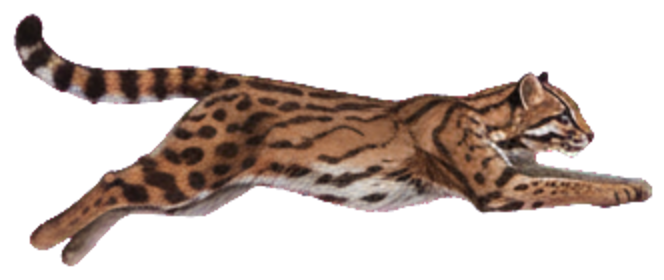
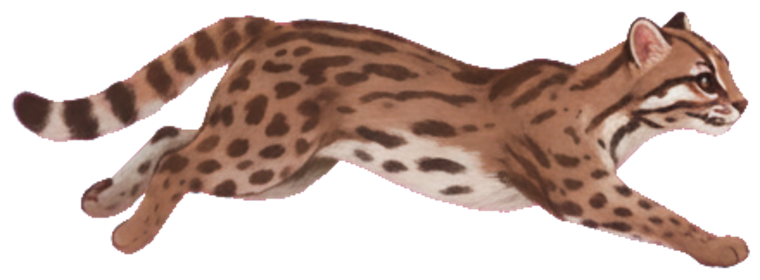
奔跑畫格畫風修正：無肌肉、維持原本柔和寫實 (sw v134)
玩家定案：畫風不可有肌肉線條，維持原本真實。石虎/梅花鹿/山羌/獼猴/黃喉貂/樹蛙
6 隻的奔跑畫格看起來太精壯（像獵豹衝刺的肌肉感），與原本柔和寫實立繪不一致——
重產這 6 隻的疾馳循環，提示詞鎖定「兒童自然圖鑑柔和寫實、圓潤自然身形、
絕不允許肌肉線條/健美感」，切格 QA 後 21 格替換上線（總計 59 格）。
sw ASSETS 以目錄清單重建、CACHE 升 v134。
驗收：單元/冒煙測試全過；實機跑動確認柔軟圓潤風格、0 遊戲 runtime error

Claude-Session: https://claude.ai/code/session_011Jxz2mf3wHUnx2whakaRhC

diff --git a/sw.js b/sw.js
@@ -1,10 +1,10 @@
 // 守土 Service Worker — 線上優先、離線可玩
-const CACHE = "shoutu-v133";
+const CACHE = "shoutu-v134";
 const ASSETS = ["./", "./index.html", "./src/fullscreen.js", "./src/sfx.js", "./src/legacy.js", "./src/moba.js", "./src/battleshop.js", "./src/net.js", "./src/habitat.js", "./src/data/types-chart.js", "./src/data/perf-tier.js", "./manifest.json", "./icon.svg", "./dino.html",
   // 守護者/入侵種寫實插畫（圖檔優先、沒圖時 canvas fallback）：預快取確保離線也看得到
   "./assets/heroes/leopard.png", "./assets/heroes/bear.png", "./assets/heroes/cicada.png", "./assets/heroes/dragonfly.png", "./assets/heroes/deer.png", "./assets/heroes/magpie.png", "./assets/heroes/muntjac.png", "./assets/heroes/macaque.png", "./assets/heroes/salmon.png", "./assets/heroes/pheasant.png", "./assets/heroes/pangolin.png", "./assets/heroes/yellowmarten.png", "./assets/heroes/mikado.png",
   "./assets/field/ground.png", "./assets/field/shrine.png", "./assets/field/nursery.png", "./assets/field/rock.png", "./assets/field/bush.png", "./assets/field/tree.png", "./assets/views/leopard_front.png", "./assets/views/leopard_right.png", "./assets/views/leopard_back.png", "./assets/views/leopard_left.png",
-  "./assets/views/bear_front.png", "./assets/views/bear_right.png", "./assets/views/bear_back.png", "./assets/views/bear_left.png", "./assets/views/cicada_front.png", "./assets/views/cicada_right.png", "./assets/views/cicada_back.png", "./assets/views/cicada_left.png", "./assets/views/dragonfly_front.png", "./assets/views/dragonfly_right.png", "./assets/views/dragonfly_back.png", "./assets/views/dragonfly_left.png", "./assets/views/deer_front.png", "./assets/views/deer_right.png", "./assets/views/deer_back.png", "./assets/views/deer_left.png", "./assets/views/magpie_front.png", "./assets/views/magpie_right.png", "./assets/views/magpie_back.png", "./assets/views/magpie_left.png", "./assets/views/muntjac_front.png", "./assets/views/muntjac_right.png", "./assets/views/muntjac_back.png", "./assets/views/muntjac_left.png", "./assets/views/macaque_front.png", "./assets/views/macaque_right.png", "./assets/views/macaque_back.png", "./assets/views/macaque_left.png", "./assets/views/salmon_front.png", "./assets/views/salmon_right.png", "./assets/views/salmon_back.png", "./assets/views/salmon_left.png", "./assets/views/pheasant_front.png", "./assets/views/pheasant_right.png", "./assets/views/pheasant_back.png", "./assets/views/pheasant_left.png", "./assets/views/pangolin_front.png", "./assets/views/pangolin_right.png", "./assets/views/pangolin_back.png", "./assets/views/pangolin_left.png", "./assets/views/yellowmarten_front.png", "./assets/views/yellowmarten_right.png", "./assets/views/yellowmarten_back.png", "./assets/views/yellowmarten_left.png", "./assets/views/mikado_front.png", "./assets/views/mikado_right.png", "./assets/views/mikado_back.png", "./assets/views/mikado_left.png", "./assets/run/bear_0.png", "./assets/run/bear_1.png", "./assets/run/bear_2.png", "./assets/run/bear_3.png", "./assets/run/canetoad_0.png", "./assets/run/canetoad_1.png", "./assets/run/canetoad_2.png", "./assets/run/canetoad_3.png", "./assets/run/cicada_0.png", "./assets/run/cicada_1.png", "./assets/run/cicada_2.png", "./assets/run/cicada_3.png", "./assets/run/deer_0.png", "./assets/run/deer_1.png", "./assets/run/deer_2.png", "./assets/run/deer_3.png", "./assets/run/dragonfly_0.png", "./assets/run/dragonfly_1.png", "./assets/run/dragonfly_2.png", "./assets/run/dragonfly_3.png", "./assets/run/frog_0.png", "./assets/run/frog_1.png", "./assets/run/frog_2.png", "./assets/run/frog_3.png", "./assets/run/ibis_0.png", "./assets/run/ibis_1.png", "./assets/run/ibis_2.png", "./assets/run/leopard_0.png", "./assets/run/leopard_1.png", "./assets/run/leopard_2.png", "./assets/run/leopard_3.png", "./assets/run/macaque_0.png", "./assets/run/macaque_1.png", "./assets/run/macaque_2.png", "./assets/run/magpie_0.png", "./assets/run/magpie_1.png", "./assets/run/mikado_0.png", "./assets/run/mikado_1.png", "./assets/run/muntjac_0.png", "./assets/run/muntjac_1.png", "./assets/run/muntjac_2.png", "./assets/run/muntjac_3.png", "./assets/run/pangolin_0.png", "./assets/run/pangolin_1.png", "./assets/run/pangolin_2.png", "./assets/run/python_0.png", "./assets/run/python_1.png", "./assets/run/python_2.png", "./assets/run/salmon_0.png", "./assets/run/salmon_1.png", "./assets/run/skink_0.png", "./assets/run/skink_1.png", "./assets/run/skink_2.png", "./assets/run/snail_0.png", "./assets/run/snail_1.png", "./assets/run/snail_2.png", "./assets/run/snail_3.png", "./assets/run/yellowmarten_0.png", "./assets/run/yellowmarten_1.png", "./assets/run/yellowmarten_2.png",
+  "./assets/views/bear_front.png", "./assets/views/bear_right.png", "./assets/views/bear_back.png", "./assets/views/bear_left.png", "./assets/views/cicada_front.png", "./assets/views/cicada_right.png", "./assets/views/cicada_back.png", "./assets/views/cicada_left.png", "./assets/views/dragonfly_front.png", "./assets/views/dragonfly_right.png", "./assets/views/dragonfly_back.png", "./assets/views/dragonfly_left.png", "./assets/views/deer_front.png", "./assets/views/deer_right.png", "./assets/views/deer_back.png", "./assets/views/deer_left.png", "./assets/views/magpie_front.png", "./assets/views/magpie_right.png", "./assets/views/magpie_back.png", "./assets/views/magpie_left.png", "./assets/views/muntjac_front.png", "./assets/views/muntjac_right.png", "./assets/views/muntjac_back.png", "./assets/views/muntjac_left.png", "./assets/views/macaque_front.png", "./assets/views/macaque_right.png", "./assets/views/macaque_back.png", "./assets/views/macaque_left.png", "./assets/views/salmon_front.png", "./assets/views/salmon_right.png", "./assets/views/salmon_back.png", "./assets/views/salmon_left.png", "./assets/views/pheasant_front.png", "./assets/views/pheasant_right.png", "./assets/views/pheasant_back.png", "./assets/views/pheasant_left.png", "./assets/views/pangolin_front.png", "./assets/views/pangolin_right.png", "./assets/views/pangolin_back.png", "./assets/views/pangolin_left.png", "./assets/views/yellowmarten_front.png", "./assets/views/yellowmarten_right.png", "./assets/views/yellowmarten_back.png", "./assets/views/yellowmarten_left.png", "./assets/views/mikado_front.png", "./assets/views/mikado_right.png", "./assets/views/mikado_back.png", "./assets/views/mikado_left.png", "./assets/run/bear_0.png", "./assets/run/bear_1.png", "./assets/run/bear_2.png", "./assets/run/bear_3.png", "./assets/run/canetoad_0.png", "./assets/run/canetoad_1.png", "./assets/run/canetoad_2.png", "./assets/run/canetoad_3.png", "./assets/run/cicada_0.png", "./assets/run/cicada_1.png", "./assets/run/cicada_2.png", "./assets/run/cicada_3.png", "./assets/run/deer_0.png", "./assets/run/deer_1.png", "./assets/run/deer_2.png", "./assets/run/dragonfly_0.png", "./assets/run/dragonfly_1.png", "./assets/run/dragonfly_2.png", "./assets/run/dragonfly_3.png", "./assets/run/frog_0.png", "./assets/run/frog_1.png", "./assets/run/frog_2.png", "./assets/run/frog_3.png", "./assets/run/ibis_0.png", "./assets/run/ibis_1.png", "./assets/run/ibis_2.png", "./assets/run/leopard_0.png", "./assets/run/leopard_1.png", "./assets/run/leopard_2.png", "./assets/run/leopard_3.png", "./assets/run/macaque_0.png", "./assets/run/macaque_1.png", "./assets/run/macaque_2.png", "./assets/run/macaque_3.png", "./assets/run/magpie_0.png", "./assets/run/magpie_1.png", "./assets/run/mikado_0.png", "./assets/run/mikado_1.png", "./assets/run/muntjac_0.png", "./assets/run/muntjac_1.png", "./assets/run/muntjac_2.png", "./assets/run/pangolin_0.png", "./assets/run/pangolin_1.png", "./assets/run/pangolin_2.png", "./assets/run/python_0.png", "./assets/run/python_1.png", "./assets/run/python_2.png", "./assets/run/salmon_0.png", "./assets/run/salmon_1.png", "./assets/run/skink_0.png", "./assets/run/skink_1.png", "./assets/run/skink_2.png", "./assets/run/snail_0.png", "./assets/run/snail_1.png", "./assets/run/snail_2.png", "./assets/run/snail_3.png", "./assets/run/yellowmarten_0.png", "./assets/run/yellowmarten_1.png", "./assets/run/yellowmarten_2.png",
   "./assets/bosses/snail.png", "./assets/bosses/iguana.png", "./assets/bosses/frog.png", "./assets/bosses/ibis.png", "./assets/bosses/anole.png", "./assets/bosses/canetoad.png", "./assets/bosses/python.png", "./assets/bosses/skink.png"];
 
 self.addEventListener("install", (e) => {

diff --git a/CLAUDE.md b/CLAUDE.md
@@ -35,8 +35,8 @@
 - **獎勵揭曉＋對戰報告**（v125）：勝利結算獎勵改逐項彈出徽章(每項一聲叮、大獎 levelup 音)＋彩帶飄落(16 片自動回收)；結算加「📋 對戰報告」——每位守護者的驅逐/造成傷害/承受傷害(hurt/onDeath 歸屬統計，投射物/必殺帶 own)、最佳表現標 ⭐、勝敗都顯示。測試 hook：`window.__dbgEnd(win)` 直接觸發結算。(v126) 結算圖示全改自繪 inline SVG(`svgIco`/ICO 表)——不用手機內建 emoji，徽章/報告/彩帶/標題按鈕皆換。(v127) 結算頁改可上下捲動(手機一定看得到回大廳)；戰場只顯示實體頭飾(王冠/蝴蝶結)、發光光環類服裝戰場不畫(玩家定案)；**全 13 隻守護者 360° 四視角完成**(assets/views/ 52 張、洋紅產圖管線)。
 - **對戰效能優化**（v128）：修「移動卡卡」——① 移除全螢幕 `saturation` 混合(GPU 回讀殺手) ② 靜態地景(森林牆/草/花/溪流/岩石)烘焙到離屏世界畫布每幀只 blit 一次(原本每幀畫 150 草+350 花瓣弧無視野裁切) ③ 立繪 512px 預縮小到 280px 小圖快取(`spScaled`)每幀貼小圖 ④ 方向光/暗角漸層快取(resize 才重建)、光束改單色 ⑤ 重用實體排序陣列降 GC 停頓。實測中階手機模擬 FPS 明顯回升，畫面視覺無明顯差異。
 - **自動效能分級**（v130）：中低階手機不用玩家手動調畫質，改實測「未夾住」的原始幀間隔(`src/data/perf-tier.js`，純函式+vitest 單元測試守住門檻/遲滯)，平均幀時間 >28ms(約<35fps) 自動關閉裝飾樹/光束/花瓣等非必要氛圍特效，回升到 <18ms(約>55fps) 才恢復(hysteresis 避免來回閃爍)；核心玩法(角色/血條/天氣/HUD)不受影響。CI 修復：冒煙測試 `smoke.spec.ts` 因預設模式改「首領挑戰」導致 `#pick3` 隱藏而每次紅燈，補上先切「一般模式」的步驟（斷言本身沒放寬）。
-- **自然＋可愛動作**（v131）：對戰角色動作去生硬——① 跑動混合值 rb 緩動(起步/停步漸進、幅度全乘 rb) ② 轉身緩動(翻面壓扁再展開的紙片轉身，不瞬間鏡像) ③ 擠壓伸展(每步落地微壓扁/騰起微拉長) ④ 前傾跑姿＋上半身反向微擺(次級動作) ⑤ 抬腳微縮短=屈膝收腿 ⑥ 站立 idle 也有極輕重心搖晃 ⑦ 換腳落地冒腳步小土塵(dust，liteFX 停用) ⑧ 鮭魚/飛蟲不切腿改整體波動(擺尾/懸停)。(v132) 步態改「真實四足疾馳(bound)」：柔軟感主體是**脊椎收攏/伸展**＋微俯仰；腿群用**髖線剪切掃動**(shear)取代硬鉸鏈旋轉、後腿驅動前腿延遲~65°(疾馳重疊步態，非 180° 剪刀)，含四足騰空懸空期。同時修 v128 光束 α 誤乘 13 的「實機大白條」bug(改快取 α1→0 漸層+globalAlpha 呼吸強度)。(v133) **真・逐格奔跑動畫**：18 隻有 AI 產的疾馳/奔走/擺尾/振翅循環畫格(`assets/run/<kind>_0..3.png` 60 張、一律面向右)，跑動時輪播＋尾段 28% 交叉淡化；管線=洋紅 sprite sheet(`tools/out/run/`)→`scratchpad/runslice.mjs`(去背+連通元件切格+所有權過濾鄰格入鏡+統一縮放)；壞格(兩隻合體/垂直姿勢)人工剔除重編號；藍腹鷴/沙氏變色蜥/綠鬣蜥產圖失敗退回程序步態(fallback 鏈：畫格→程序疾馳→canvas)。
-- **PWA 版本**：`sw.js` CACHE 目前 `shoutu-v133`。
+- **自然＋可愛動作**（v131）：對戰角色動作去生硬——① 跑動混合值 rb 緩動(起步/停步漸進、幅度全乘 rb) ② 轉身緩動(翻面壓扁再展開的紙片轉身，不瞬間鏡像) ③ 擠壓伸展(每步落地微壓扁/騰起微拉長) ④ 前傾跑姿＋上半身反向微擺(次級動作) ⑤ 抬腳微縮短=屈膝收腿 ⑥ 站立 idle 也有極輕重心搖晃 ⑦ 換腳落地冒腳步小土塵(dust，liteFX 停用) ⑧ 鮭魚/飛蟲不切腿改整體波動(擺尾/懸停)。(v132) 步態改「真實四足疾馳(bound)」：柔軟感主體是**脊椎收攏/伸展**＋微俯仰；腿群用**髖線剪切掃動**(shear)取代硬鉸鏈旋轉、後腿驅動前腿延遲~65°(疾馳重疊步態，非 180° 剪刀)，含四足騰空懸空期。同時修 v128 光束 α 誤乘 13 的「實機大白條」bug(改快取 α1→0 漸層+globalAlpha 呼吸強度)。(v133) **真・逐格奔跑動畫**：18 隻有 AI 產的疾馳/奔走/擺尾/振翅循環畫格(`assets/run/<kind>_0..3.png` 60 張、一律面向右)，跑動時輪播＋尾段 28% 交叉淡化；管線=洋紅 sprite sheet(`tools/out/run/`)→`scratchpad/runslice.mjs`(去背+連通元件切格+所有權過濾鄰格入鏡+統一縮放)；壞格(兩隻合體/垂直姿勢)人工剔除重編號；藍腹鷴/沙氏變色蜥/綠鬣蜥產圖失敗退回程序步態(fallback 鏈：畫格→程序疾馳→canvas)。(v134) 玩家定案畫風：奔跑畫格**不可有肌肉線條**——石虎/梅花鹿/山羌/獼猴/黃喉貂/樹蛙 6 隻重產(提示詞鎖「兒童自然圖鑑柔和寫實、圓潤自然、絕不肌肉」)，21 格替換上線。
+- **PWA 版本**：`sw.js` CACHE 目前 `shoutu-v134`。
 - **Beta 1.0 定版**：commit `8c53e28` / sw `shoutu-v98`。（遠端 tag 因 sandbox 權限 403 無法推送，版本以本文件與 `docs/` 為準。）架構總覽見 `docs/ARCHITECTURE.md`、系統詳規見 `docs/SYSTEMS.md`、協作流程見 `docs/PROCESS.md`。
 
 ## 協作合約 / 溝通流程（每個 session 開場都讀）
